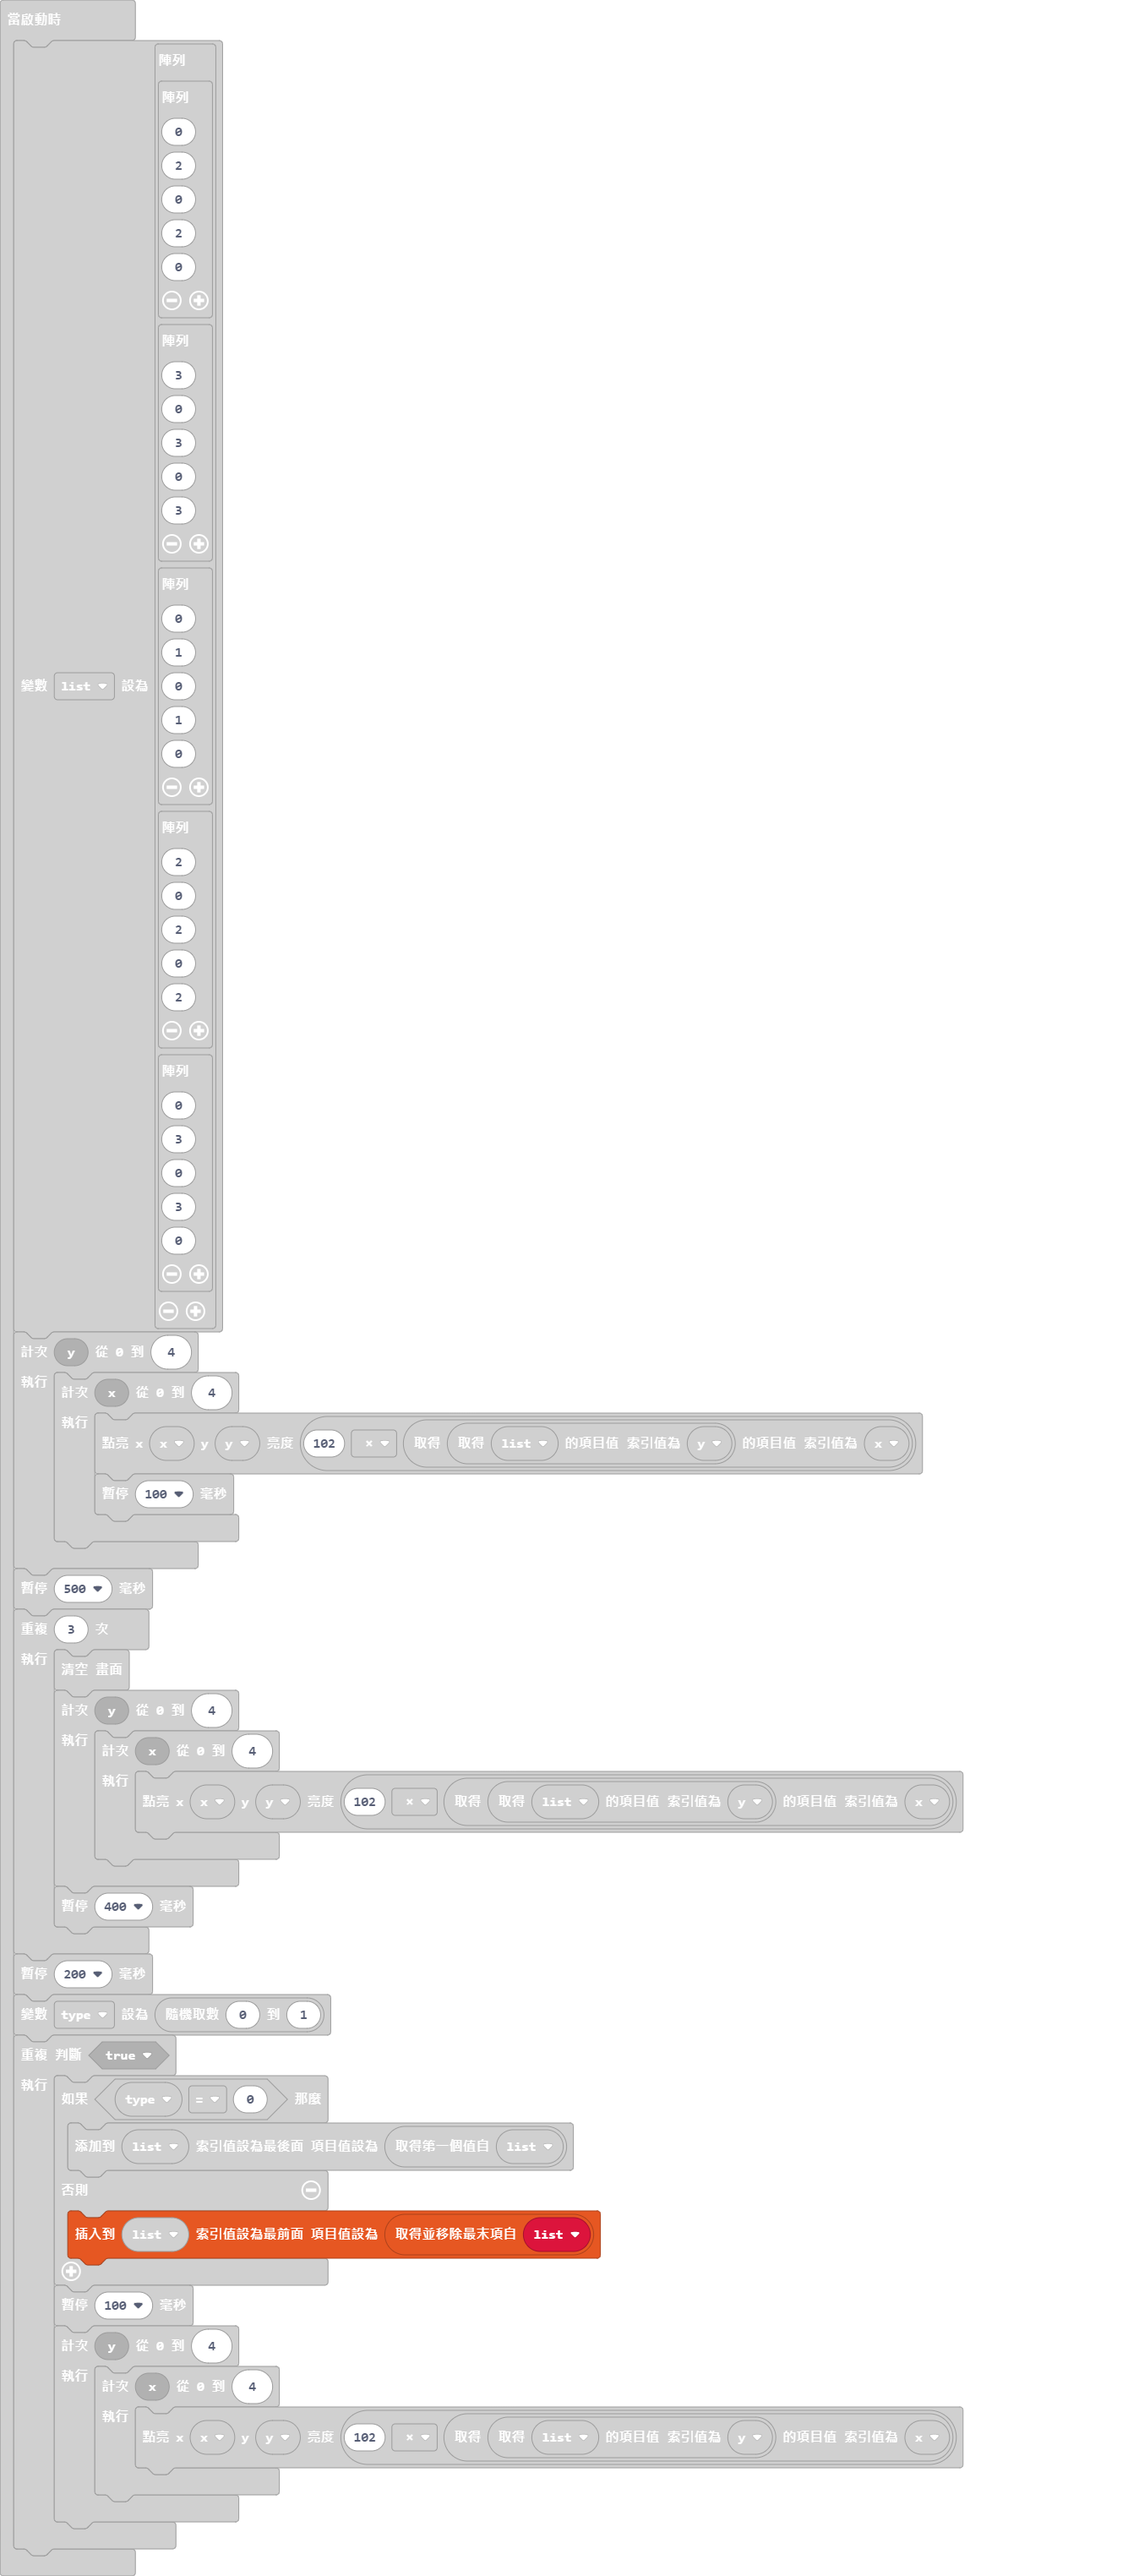
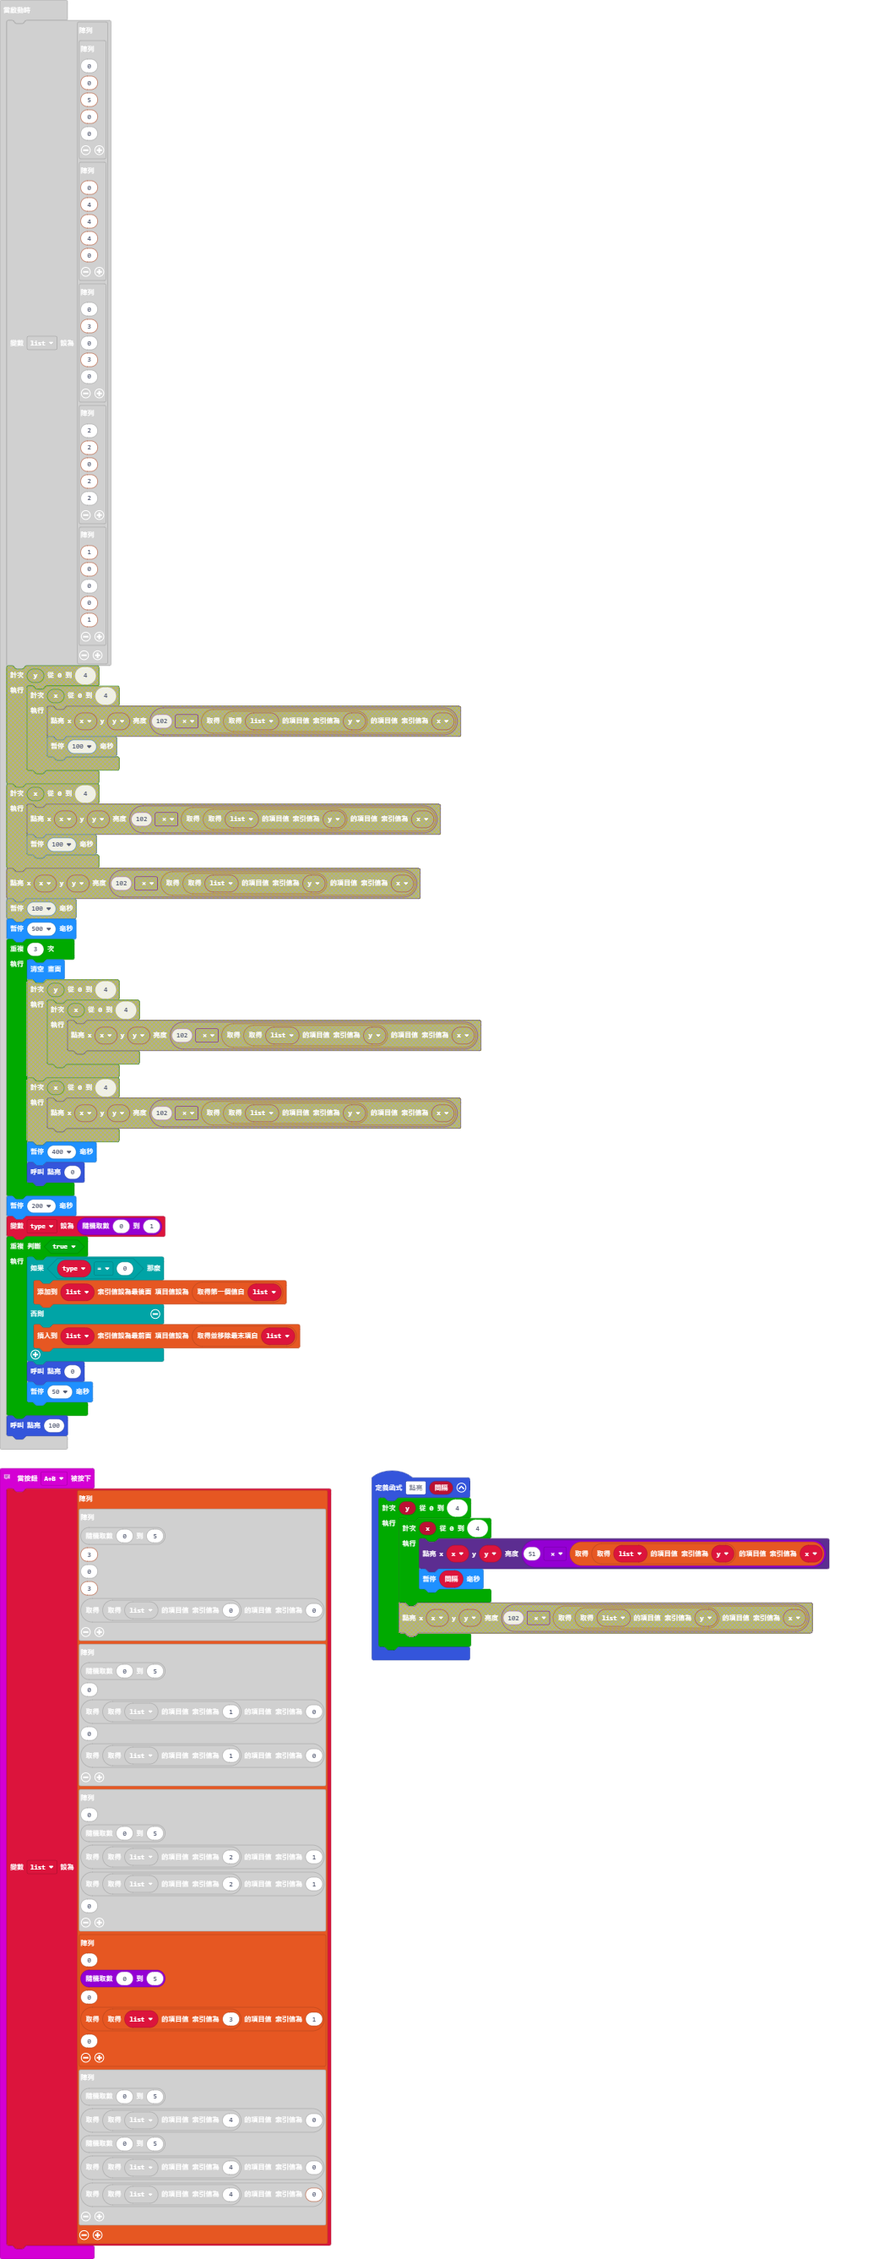
改變初始圖形，簡化程式

Changed region(s): [[0.0, 0.0, 0.934, 1.0], [0.0, 0.0, 0.0311, 0.031]]

diff --git a/main.ts b/main.ts
@@ -1,10 +1,22 @@
-input.onButtonPressed(Button.A, function () {
+function 點亮 (間隔: number) {
+    for (let y = 0; y <= 4; y++) {
+        for (let x = 0; x <= 4; x++) {
+            led.plotBrightness(x, y, 51 * list[y][x])
+            basic.pause(間隔)
+        }
+    }
+}
+// 隨機形成圖案
+// 還是有一些限制
+// 避免太過雜亂，並且保持左右對稱
+// 
+input.onButtonPressed(Button.AB, function () {
     list = [
     [
     randint(0, 5),
-    1,
+    3,
     0,
-    1,
+    3,
     list[0][0]
     ],
     [
@@ -22,10 +34,10 @@ input.onButtonPressed(Button.A, function () {
     0
     ],
     [
-    randint(0, 5),
-    list[3][0],
     0,
-    list[3][0],
+    randint(0, 5),
+    0,
+    list[3][1],
     0
     ],
     [
@@ -33,7 +45,7 @@ input.onButtonPressed(Button.A, function () {
     list[4][0],
     randint(0, 5),
     list[4][0],
-    list[4][2]
+    list[4][0]
     ]
     ]
 })
@@ -49,54 +61,45 @@ let list: number[][] = []
 list = [
 [
 0,
-2,
 0,
-2,
+5,
+0,
 0
 ],
 [
-3,
 0,
-3,
-0,
-3
+4,
+4,
+4,
+0
 ],
 [
 0,
-1,
+3,
 0,
-1,
+3,
 0
 ],
 [
 2,
-0,
 2,
 0,
+2,
 2
 ],
 [
+1,
 0,
-3,
 0,
-3,
-0
+0,
+1
 ]
 ]
-for (let y = 0; y <= 4; y++) {
-    for (let x = 0; x <= 4; x++) {
-        led.plotBrightness(x, y, 102 * list[y][x])
-        basic.pause(100)
-    }
-}
+點亮(100)
 basic.pause(500)
 for (let index = 0; index < 3; index++) {
     basic.clearScreen()
-    for (let y = 0; y <= 4; y++) {
-        for (let x = 0; x <= 4; x++) {
-            led.plotBrightness(x, y, 102 * list[y][x])
-        }
-    }
+    點亮(0)
     basic.pause(400)
 }
 basic.pause(200)
@@ -107,12 +110,8 @@ while (true) {
     } else {
         list.unshift(list.pop())
     }
-    basic.pause(100)
-    for (let y = 0; y <= 4; y++) {
-        for (let x = 0; x <= 4; x++) {
-            led.plotBrightness(x, y, 102 * list[y][x])
-        }
-    }
+    點亮(0)
+    basic.pause(50)
 }
 basic.forever(function () {
 	
